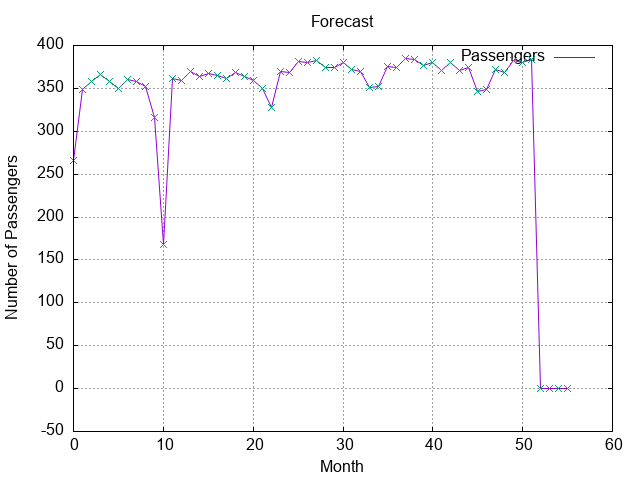
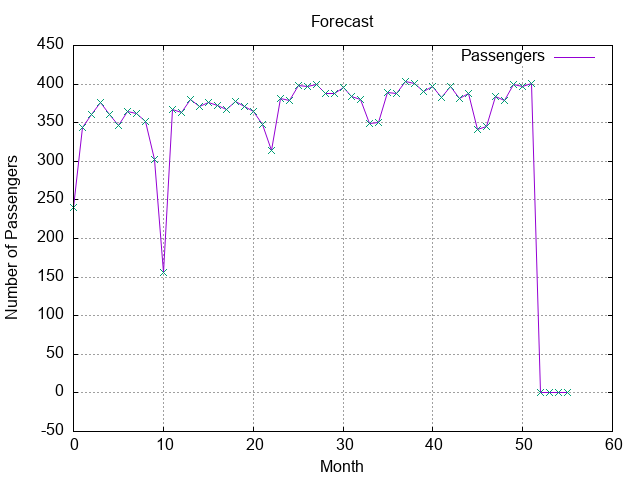
Updating documentation

diff --git a/README.md b/README.md
@@ -22,17 +22,19 @@ the data except during the [Covid-19 pandemic](https://en.wikipedia.org/wiki/Imp
 but nevertheless, the pattern continues.
 
 ## Forecast
-The following is a forecast using the training data.
+The following is a forecast using the training data:
 
 ### Learning Rate 0.001
 
-![02-forecast-only.png](.artifacts/docs/img/02-forecast-only.png)
+![02-forecast-only-learning-0-001.png](.artifacts/docs/img/02-forecast-only-learning-0-001.png)
 
 ### Learning Rate 0.05
 
-![02-forecast-only-learning-0-02.png](.artifacts/docs/img/02-forecast-only-learning-0-02.png)
+![02-forecast-only-learning-0-05.png](.artifacts/docs/img/02-forecast-only-learning-0-05.png)
 
-![02-forecast-only.png](.artifacts/docs/img/02-forecast-only.png)
+### Learning Rate 0.01
+
+![02-forecast-only-learning-0-01.png](.artifacts/docs/img/02-forecast-only-learning-0-01.png)
 
 ## References
 <a id="1">[1]</a> Atlanta Hartsfield-Jackson Airport https://en.wikipedia.org/wiki/Hartsfield%E2%80%93Jackson_Atlanta_International_Airport <br>
